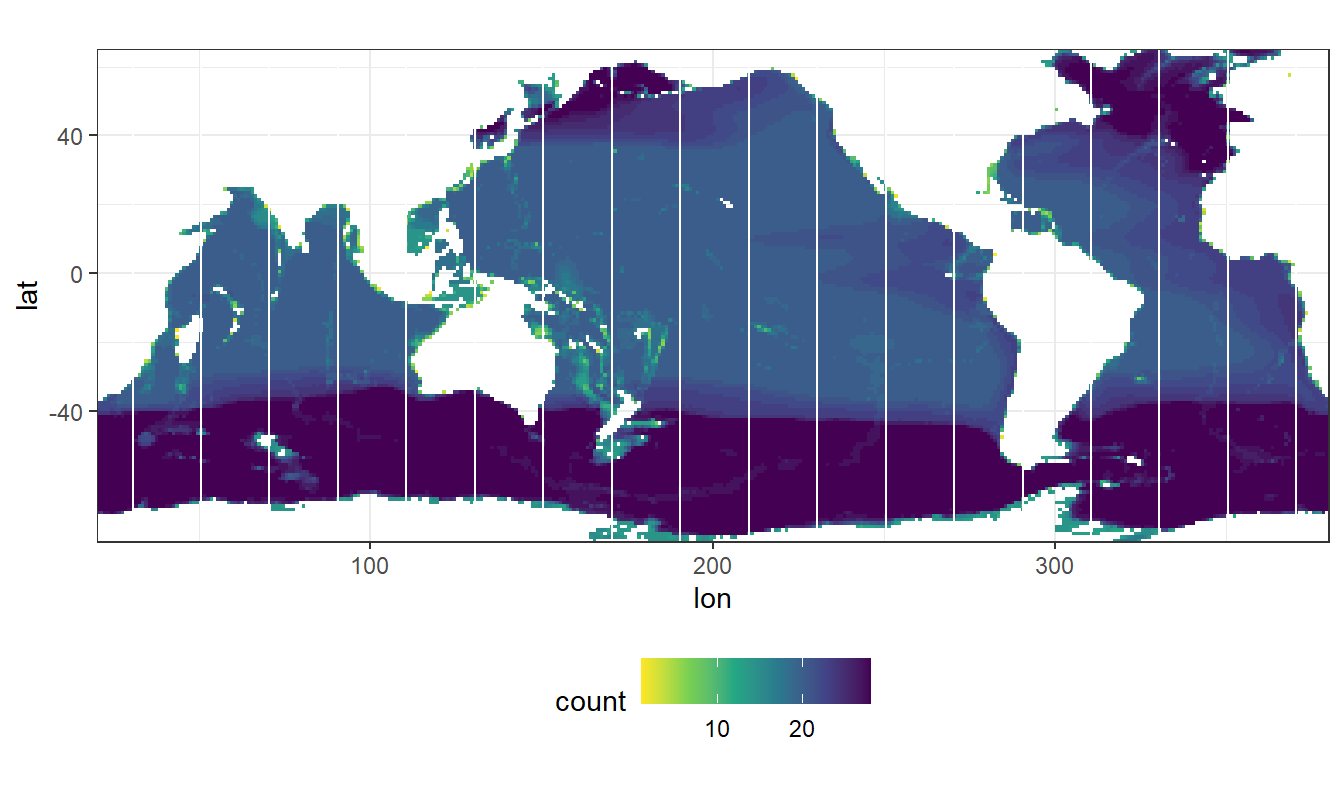
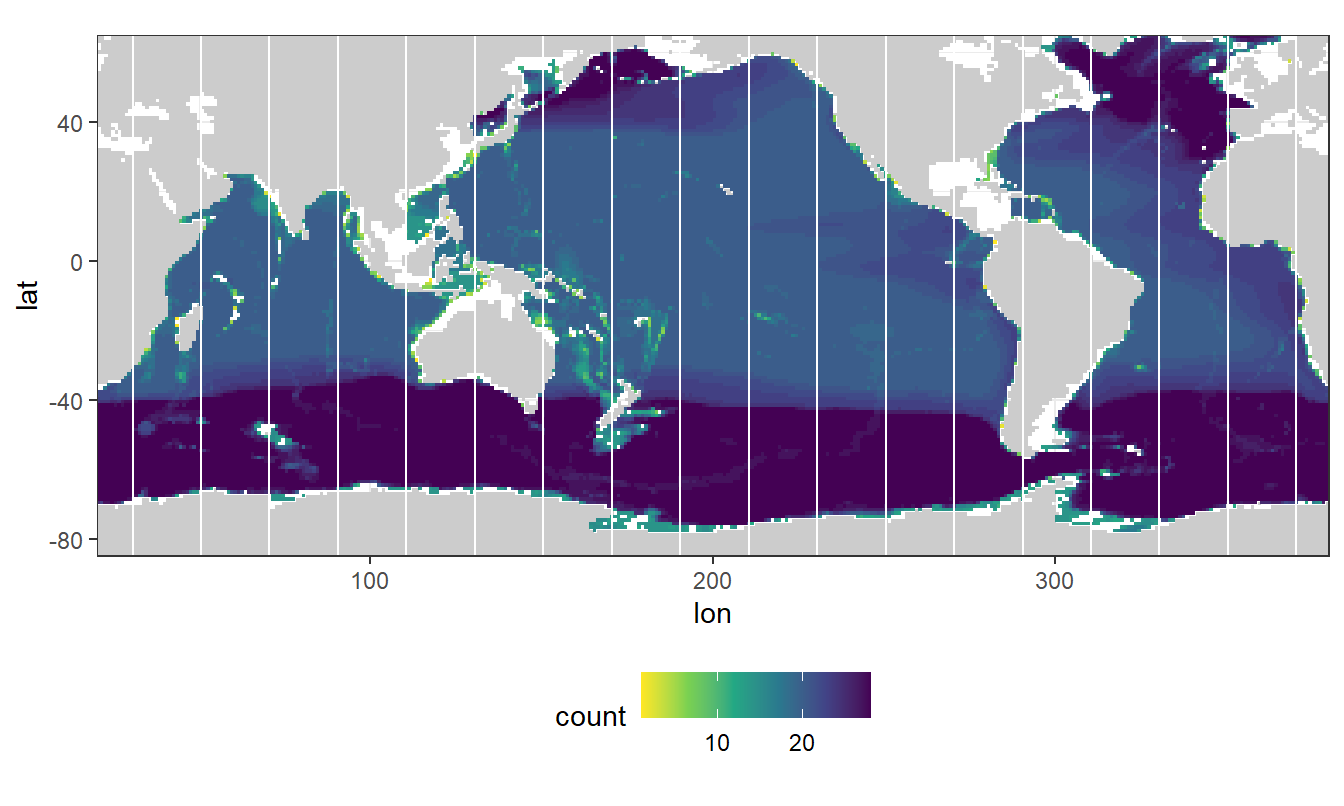
Build site.

diff --git a/docs/mapping_predictor_preparation.html b/docs/mapping_predictor_preparation.html
@@ -502,7 +502,7 @@ div.tocify {
 
 <h1 class="title toc-ignore">Mapping</h1>
 <h4 class="author">Jens Daniel Müller</h4>
-<h4 class="date">10 September, 2020</h4>
+<h4 class="date">16 September, 2020</h4>
 
 </div>
 
@@ -527,7 +527,7 @@ div.tocify {
 <div class="tab-content">
 <div id="summary" class="tab-pane fade in active">
 <p>
-<strong>Last updated:</strong> 2020-09-10
+<strong>Last updated:</strong> 2020-09-16
 </p>
 <p>
 <strong>Checks:</strong> <span class="glyphicon glyphicon-ok text-success" aria-hidden="true"></span> 7 <span class="glyphicon glyphicon-exclamation-sign text-danger" aria-hidden="true"></span> 0
@@ -618,16 +618,16 @@ This reproducible <a href="http://rmarkdown.rstudio.com">R Markdown</a> analysis
 <div class="panel panel-default">
 <div class="panel-heading">
 <p class="panel-title">
-<a data-toggle="collapse" data-parent="#workflowr-checks" href="#strongRepositoryversionstrongahrefhttpsgithubcomjensdanielmuellerCanteMLRtreeacd5ac045f84c84a414313d5b2d066c4386e4f42targetblankacd5ac0a"> <span class="glyphicon glyphicon-ok text-success" aria-hidden="true"></span> <strong>Repository version:</strong> <a href="https://github.com/jens-daniel-mueller/Cant_eMLR/tree/acd5ac045f84c84a414313d5b2d066c4386e4f42" target="_blank">acd5ac0</a> </a>
+<a data-toggle="collapse" data-parent="#workflowr-checks" href="#strongRepositoryversionstrongahrefhttpsgithubcomjensdanielmuellerCanteMLRtreee45d875ef359f4632af3fea07fa66410e8385b28targetblanke45d875a"> <span class="glyphicon glyphicon-ok text-success" aria-hidden="true"></span> <strong>Repository version:</strong> <a href="https://github.com/jens-daniel-mueller/Cant_eMLR/tree/e45d875ef359f4632af3fea07fa66410e8385b28" target="_blank">e45d875</a> </a>
 </p>
 </div>
[2 lines of base64/hex data omitted]
 <div class="panel-body">
 <p>
 Great! You are using Git for version control. Tracking code development and connecting the code version to the results is critical for reproducibility.
 </p>
 <p>
-The results in this page were generated with repository version <a href="https://github.com/jens-daniel-mueller/Cant_eMLR/tree/acd5ac045f84c84a414313d5b2d066c4386e4f42" target="_blank">acd5ac0</a>. See the <em>Past versions</em> tab to see a history of the changes made to the R Markdown and HTML files.
+The results in this page were generated with repository version <a href="https://github.com/jens-daniel-mueller/Cant_eMLR/tree/e45d875ef359f4632af3fea07fa66410e8385b28" target="_blank">e45d875</a>. See the <em>Past versions</em> tab to see a history of the changes made to the R Markdown and HTML files.
 </p>
 <p>
 Note that you need to be careful to ensure that all relevant files for the analysis have been committed to Git prior to generating the results (you can use <code>wflow_publish</code> or <code>wflow_git_commit</code>). workflowr only checks the R Markdown file, but you know if there are other scripts or data files that it depends on. Below is the status of the Git repository when the results were generated:
@@ -635,6 +635,7 @@ Note that you need to be careful to ensure that all relevant files for the analy
 <pre><code>
 Ignored files:
     Ignored:    .Rproj.user/
+    Ignored:    analysis/figure/
     Ignored:    data/GLODAPv1_1/
     Ignored:    data/GLODAPv2_2016b_MappedClimatologies/
     Ignored:    data/GLODAPv2_2020/
@@ -646,6 +647,9 @@ Ignored files:
     Ignored:    data/mapping/
     Ignored:    data/pCO2_atmosphere/
     Ignored:    dump/
+
+Untracked files:
+    Untracked:  output/figure/eMLR/model_validation/
 
 </code></pre>
 <p>
@@ -684,6 +688,40 @@ Message
 </tr>
 </thead>
 <tbody>
+<tr>
+<td>
+Rmd
+</td>
+<td>
+<a href="https://github.com/jens-daniel-mueller/Cant_eMLR/blob/e45d875ef359f4632af3fea07fa66410e8385b28/analysis/mapping_predictor_preparation.Rmd" target="_blank">e45d875</a>
+</td>
+<td>
+jens-daniel-mueller
+</td>
+<td>
+2020-09-16
+</td>
+<td>
+jonied surface predictor fields
+</td>
+</tr>
+<tr>
+<td>
+html
+</td>
+<td>
+<a href="https://rawcdn.githack.com/jens-daniel-mueller/Cant_eMLR/da91d9870f2a212d93247c8d40de7de2a38ac57c/docs/mapping_predictor_preparation.html" target="_blank">da91d98</a>
+</td>
+<td>
+jens-daniel-mueller
+</td>
+<td>
+2020-09-10
+</td>
+<td>
+Build site.
+</td>
+</tr>
 <tr>
 <td>
 html
@@ -1312,6 +1350,31 @@ rm(temp, i_variable, variables)
 # removed na&#39;s attributable to slightly different coverage of predictor fields
 GLODAP_predictors &lt;- GLODAP_predictors %&gt;%
   drop_na()</code></pre>
+<pre class="r"><code>variables &lt;-
+  c(&quot;TAlk&quot;, &quot;TCO2&quot;)
+
+for (i_variable in variables) {
+  temp &lt;- read_csv(
+    here::here(
+      &quot;data/GLODAPv2_2016b_MappedClimatologies/_summarized_files&quot;,
+      paste(i_variable, &quot;.csv&quot;, sep = &quot;&quot;)
+    )
+  )
+  
+  if (exists(&quot;GLODAP_predictors_CO2&quot;)) {
+    GLODAP_predictors_CO2 &lt;- full_join(GLODAP_predictors_CO2, temp)
+  }
+  
+  if (!exists(&quot;GLODAP_predictors_CO2&quot;)) {
+    GLODAP_predictors_CO2 &lt;- temp
+  }
+}
+
+rm(temp, i_variable, variables)
+
+# removed na&#39;s attributable to slightly different coverage of predictor fields
+GLODAP_predictors_CO2 &lt;- GLODAP_predictors_CO2 %&gt;%
+  drop_na()</code></pre>
 </div>
 <div id="world-ocean-atlas-2018" class="section level2">
 <h2><span class="header-section-number">1.2</span> World Ocean Atlas 2018</h2>
@@ -1326,6 +1389,14 @@ GLODAP_predictors &lt;- GLODAP_predictors %&gt;%
     here::here(
       &quot;data/World_Ocean_Atlas_2018/_summarized_files&quot;,
       &quot;WOA18_predictors.csv&quot;
+    )
+  )
+
+WOA18_predictors_surface &lt;-
+  read_csv(
+    here::here(
+      &quot;data/World_Ocean_Atlas_2018/_summarized_files&quot;,
+      &quot;WOA18_predictors_surface.csv&quot;
     )
   )</code></pre>
 </div>
@@ -1342,6 +1413,14 @@ predictors &lt;- predictors %&gt;%
   drop_na()
 
 rm(GLODAP_predictors, WOA18_predictors)</code></pre>
+<pre class="r"><code>predictors_surface &lt;- full_join(
+  GLODAP_predictors_CO2,
+  WOA18_predictors_surface)
+
+predictors_surface &lt;- predictors_surface %&gt;% 
+  drop_na()
+
+rm(GLODAP_predictors_CO2, WOA18_predictors_surface)</code></pre>
 <div id="control-plots" class="section level2">
 <h2><span class="header-section-number">2.1</span> Control plots</h2>
 <div id="maps" class="section level3">
@@ -1352,8 +1431,20 @@ rm(GLODAP_predictors, WOA18_predictors)</code></pre>
 <pre class="r"><code>map_climatology(predictors, &quot;tem&quot;)</code></pre>
 <p><img src="figure/mapping_predictor_preparation.Rmd/joined_climatology_control_tem-1.png" width="672" style="display: block; margin: auto;" /></p>
 </div>
+<div id="maps-surface" class="section level3">
+<h3><span class="header-section-number">2.1.2</span> Maps surface</h3>
+<p>Three maps are generated to control successful merging of data sets.</p>
+<pre class="r"><code>map_climatology(predictors_surface, &quot;TAlk&quot;)</code></pre>
+<p><img src="figure/mapping_predictor_preparation.Rmd/joined_climatology_control_TAlk_surface-1.png" width="672" style="display: block; margin: auto;" /></p>
+<pre class="r"><code>map_climatology(predictors_surface, &quot;TCO2&quot;)</code></pre>
+<p><img src="figure/mapping_predictor_preparation.Rmd/joined_climatology_control_TCO2_surface-1.png" width="672" style="display: block; margin: auto;" /></p>
+<pre class="r"><code>map_climatology(predictors_surface, &quot;sal&quot;)</code></pre>
+<p><img src="figure/mapping_predictor_preparation.Rmd/joined_climatology_control_sal_surface-1.png" width="672" style="display: block; margin: auto;" /></p>
+<pre class="r"><code>map_climatology(predictors_surface, &quot;tem&quot;)</code></pre>
+<p><img src="figure/mapping_predictor_preparation.Rmd/joined_climatology_control_tem_surface-1.png" width="672" style="display: block; margin: auto;" /></p>
+</div>
 <div id="predictor-profiles" class="section level3">
-<h3><span class="header-section-number">2.1.2</span> Predictor profiles</h3>
+<h3><span class="header-section-number">2.1.3</span> Predictor profiles</h3>
 <p>Likewise, predictor profiles for the North Atlantic (40.5 / 335.5) are plotted to control successful merging of the data sets.</p>
 <pre class="r"><code>N_Atl &lt;- predictors %&gt;% 
   filter(lat == parameters$lat_Atl_profile,
@@ -1445,9 +1536,13 @@ rm(predictors_Atl, predictors_Ind_Pac)</code></pre>
 </div>
 <div id="plot-al-predictor-sections" class="section level1">
 <h1><span class="header-section-number">4</span> Plot al predictor sections</h1>
+<div id="deep-waters" class="section level2">
+<h2><span class="header-section-number">4.1</span> Deep waters</h2>
 <p>Predictor sections along with lines are shown below for each (potential) predictor variable.</p>
 <pre class="r"><code>predictors %&gt;%
   ggplot(aes(lon, lat)) +
+      geom_raster(data = landmask,
+                aes(lon, lat), fill = &quot;grey80&quot;) +
   geom_bin2d(binwidth = c(1,1)) +
   geom_vline(xintercept = parameters$longitude_sections_regular,
              col = &quot;white&quot;) +
@@ -1472,11 +1567,44 @@ for (i_var in vars) {
 }</code></pre>
 <p><img src="figure/mapping_predictor_preparation.Rmd/all_predictor_sections-1.png" width="672" style="display: block; margin: auto;" /><img src="figure/mapping_predictor_preparation.Rmd/all_predictor_sections-2.png" width="672" style="display: block; margin: auto;" /><img src="figure/mapping_predictor_preparation.Rmd/all_predictor_sections-3.png" width="672" style="display: block; margin: auto;" /><img src="figure/mapping_predictor_preparation.Rmd/all_predictor_sections-4.png" width="672" style="display: block; margin: auto;" /><img src="figure/mapping_predictor_preparation.Rmd/all_predictor_sections-5.png" width="672" style="display: block; margin: auto;" /><img src="figure/mapping_predictor_preparation.Rmd/all_predictor_sections-6.png" width="672" style="display: block; margin: auto;" /><img src="figure/mapping_predictor_preparation.Rmd/all_predictor_sections-7.png" width="672" style="display: block; margin: auto;" /><img src="figure/mapping_predictor_preparation.Rmd/all_predictor_sections-8.png" width="672" style="display: block; margin: auto;" /></p>
 </div>
+<div id="surface-waters" class="section level2">
+<h2><span class="header-section-number">4.2</span> Surface waters</h2>
+<p>Predictor sections along with lines are shown below for each (potential) predictor variable.</p>
+<pre class="r"><code>predictors_surface %&gt;%
+  ggplot(aes(lon, lat)) +
+  geom_raster(data = landmask,
+                aes(lon, lat), fill = &quot;grey80&quot;) +
+  geom_bin2d(binwidth = c(1,1)) +
+  geom_vline(xintercept = parameters$longitude_sections_regular,
+             col = &quot;white&quot;) +
+  scale_fill_viridis_c(direction = -1) +
+  coord_quickmap(expand = 0) +
+  theme(legend.position = &quot;bottom&quot;)</code></pre>
+<p><img src="figure/mapping_predictor_preparation.Rmd/predictors_observations_sections_map_surface-1.png" width="672" style="display: block; margin: auto;" /></p>
+<pre class="r"><code>vars &lt;-
+  c(
+    &quot;gamma&quot;,
+    &quot;sal&quot;,
+    &quot;tem&quot;,
+    &quot;TCO2&quot;,
+    &quot;TAlk&quot;
+  )
+
+for (i_var in vars) {
+  print(section_climatology_regular(predictors_surface, i_var))
+}</code></pre>
+<p><img src="figure/mapping_predictor_preparation.Rmd/all_predictor_sections_surface-1.png" width="672" style="display: block; margin: auto;" /><img src="figure/mapping_predictor_preparation.Rmd/all_predictor_sections_surface-2.png" width="672" style="display: block; margin: auto;" /><img src="figure/mapping_predictor_preparation.Rmd/all_predictor_sections_surface-3.png" width="672" style="display: block; margin: auto;" /><img src="figure/mapping_predictor_preparation.Rmd/all_predictor_sections_surface-4.png" width="672" style="display: block; margin: auto;" /><img src="figure/mapping_predictor_preparation.Rmd/all_predictor_sections_surface-5.png" width="672" style="display: block; margin: auto;" /></p>
+</div>
+</div>
 <div id="write-csv" class="section level1">
 <h1><span class="header-section-number">5</span> Write csv</h1>
 <pre class="r"><code>predictors %&gt;%
     write_csv(here::here(&quot;data/mapping/predictor_fields&quot;,
-                         &quot;W18_st_G16_opsn.csv&quot;))</code></pre>
+                         &quot;W18_st_G16_opsn.csv&quot;))
+
+predictors_surface %&gt;%
+    write_csv(here::here(&quot;data/mapping/predictor_fields&quot;,
+                         &quot;W18_st_G16_opsn_surface.csv&quot;))</code></pre>
 </div>
 <div id="alternative-predictors" class="section level1">
 <h1><span class="header-section-number">6</span> Alternative predictors</h1>
